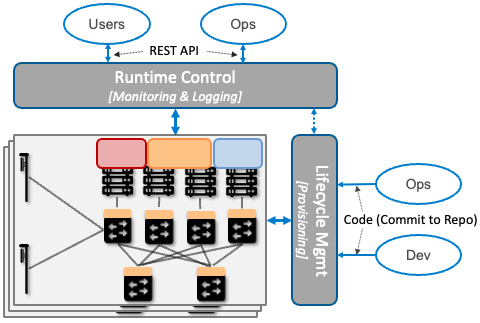
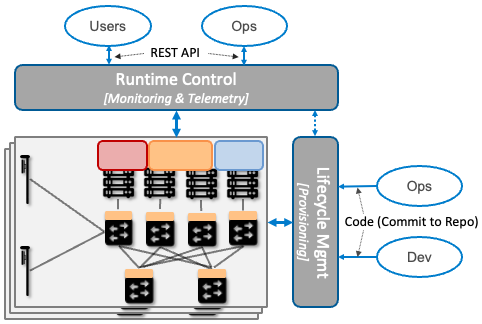
reconciled earlier chapters

diff --git a/monitor.rst b/monitor.rst
@@ -5,10 +5,9 @@ Collecting telemetry data for a running system, so that operators can
 monitor its behavior, evaluate performance, make informed provisioning
 decisions, respond to failures, identify attacks, and diagnose
 problems is an essential function of any management platform. Broadly
-speaking, there are three types of telemetry data to
-collect—*metrics*, *logs*, and *traces*\—with multiple open source
-software stacks available to help collect, monitor, and act upon each
-of them.
+speaking, there are three types of telemetry data—*metrics*, *logs*,
+and *traces*\—with multiple open source software stacks available to
+help collect, store, and act upon each of them.
 
 Metrics are quantitative data about a system. These include common
 performance metrics like link bandwidth, CPU utilization, and memory
@@ -43,8 +42,33 @@ inherently distributed across a graph of network-connected
 microservices. This makes the problem challenging, but also critically
 important because it is often the case that the only way to understand
 a time-dependent phenomena—such as why a particular resource is over
-loaded—is understand why multiple independent workflows are impacting
-each other.
+loaded—is understand how multiple independent workflows impact each
+other.
+
+.. sidebar:: Observability
+
+    *Observability is a new term being used in the context monitoring,
+    and while it is easily dismissed as the latest buzzword (which it
+    is), it can also be interpretted as another of the set of "-ities"
+    (qualities) that all good systems aspire to: scalability,
+    reliability, availability, security, usability, and so on.
+    Observability is the quality of system designed to reveal the
+    facts (telemetry data) about its internal operation required to
+    make informed management and control decisions. Instrumentation is
+    the key implementation choice systems (and system components) make
+    to improve their observability.*
+
+    *Observability is not just a software quality. For example, a
+    recent development is Inband Network Telemetry (INT), which takes
+    advantage of programmable switching hardware to enable new
+    questions about how network packets are being processed, rather
+    than having to depend the fixed set of counters hardwired into
+    network devices.  Because Aether uses programmable switches as the
+    foundation for its SDN-based switching fabric, it has a fourth set
+    of telemetry data availble to help debug problems, optimize
+    performance, and detect malicious attacks. We do not discuss INT
+    in this chapter, but refer the reader to our companion SDN book
+    for more information.*
 
 In addition to collecting various telemetry data, there is also an
 analysis step required to take advantage of it. This is an open ended
@@ -61,12 +85,11 @@ dropping a monitoring value is not especially harmful.
 
 Finally, because the metrics, logs, and traces collected by the
 various subsystems are timestamped, it is also possible to build
-linkages between the various types of telemetry data, which is
-especially helpful when debugging a problem or deciding whether an
-alert is warranted. We give examples of how this and other useful
-functions might be implemented in the concluding section, where we
-also discuss ongoing efforts to unify monitoring across all types of
-data.
+linkages between them, which is especially helpful when debugging a
+problem or deciding whether an alert is warranted. We give examples of
+how this and other useful functions might be implemented in the
+concluding section, where we also discuss ongoing efforts to unify
+monitoring across all types of telemetry data.
 
 6.1 Metrics and Alerts
 -------------------------------
@@ -345,8 +368,8 @@ following set of best practices.
 The third tool in the monitoring toolkit is support for tracing, which
 is challenging in a cloud setting because it involves following the
 flow of control for each transaction across multiple microservices.
-This makes it a distributed problem, rather than the simpler (and
-familiar) task of inspecting an in-memory stack trace.
+This makes it a distributed problem, rather than the simpler task of
+inspecting an in-memory stack trace.
 
 The general pattern is similar what we've already seen with metrics
 and logs: the code is instrumented to produce data that is then
@@ -372,20 +395,22 @@ timestamped and annotated with relevant facts (key/value tags) about
 the application. Importantly, each span includes timestamped log
 messages generated while the span was executing (simplifying the
 process of relating log messages with traces), and each span context
-records the endpoint and parameters for the remote service innovation.
+records the state (e.g., call parameters) that crosses microservice
+boundaries.
 
 Again, as with metrics and log messages, the details are important and
-those details are specified by an agreed-upon schema. The
-OpenTelemetry project is now defining one such spec, building on the
-earlier OpenTracing project. Notably, however, the problem space is
-complex and the subject of ongoing research. These definitions can be
-expected to evolve and mature in the foreseeable future.
+those details are specified by an agreed-upon data model. The
+OpenTelemetry project is now defining one such model, building on the
+earlier OpenTracing project. Notably, however, the problem is complex,
+especially with respect to (1) reducing the overhead of tracing so as
+to not negatively impact performance, and (2) extracting meaningful
+high-level information from a collection of per-transaction traces. As
+a consequence, distributed tracing is the subject of significant
+ongoing research, and we can expect these definitions to evolve and
+mature in the foreseeable future.
 
 .. _reading_tracing:
 .. admonition:: Further Reading
-
-   `OpenTracing 
-   <https://opentracing.io/>`__.
 
    `OpenTelemetry 
    <https://opentelemetry.io/>`__.
@@ -396,10 +421,11 @@ expected to evolve and mature in the foreseeable future.
 With respect to mechanisms, Jaeger is a widely used open source
 tracing tool originally developed by Uber. (Jaeger is not currently
 included in Aether, but was utilized in a predecessor ONF edge cloud.)
-Jaeger includes client libraries that can be used to instrument source
-code, a collector, storage, a language that can be used to query
-stored traces, and a user dashboard designed to help diagnose
-performance problems and do root cause analysis.
+Jaeger includes instrumentation of the runtime system for the
+language(s) used to implement an application, a collector, storage, a
+query language that can be used to analyze stored traces, and a user
+dashboard designed to help diagnose performance problems and do root
+cause analysis.
 
 6.4 Integrated Dashboards
 -------------------------
@@ -415,22 +441,23 @@ the subsystems of the management platform is also a requirement.
 
 Unifying all this data is the ultimate objective of on-going efforts
 like the OpenTelemetry project mentioned in the previous section, but
-there are also opportunities to do so today with legacy subsystems,
-using the tools described in this chapter. This section highlights two
+there are also opportunities to use the tools described in this
+chapter to better integrate data. This section highlights two
 examples.
 
 First, while Kibana provides a dashboard view of the logs being
 collected, in practice, it is most useful to have a convenient way to
 see the log messages associated with a particular component (at a
-particular time and log level) in the context of monitoring data. This
-is easy to accomplish because Grafana can be configured to display
-data from Elastic Search just as easily as from Prometheus. Both are
-data sources that can be queried. This makes it to possible to create
-a Grafana dashboard that includes a selected set of log messages,
-similar to the one from Aether shown in :numref:`Figure %s
-<fig-es_dash>`.  In this example, we see INFO-level messages
-associated with the UPF sub-component of SD-Core, which augments the
-UPF performance data shown in :numref:`Figure %s <fig-upf_dash>`.
+particular time and log level) in the context of metrics that have
+been collected. This is easy to accomplish because Grafana can be
+configured to display data from Elastic Search just as easily as from
+Prometheus. Both are data sources that can be queried. This makes it
+to possible to create a Grafana dashboard that includes a selected set
+of log messages, similar to the one from Aether shown in
+:numref:`Figure %s <fig-es_dash>`.  In this example, we see INFO-level
+messages associated with the UPF sub-component of SD-Core, which
+augments the UPF performance data shown in :numref:`Figure %s
+<fig-upf_dash>`.
 
 .. _fig-es_dash:
 .. figure:: figures/es_dash.png
@@ -440,15 +467,16 @@ UPF performance data shown in :numref:`Figure %s <fig-upf_dash>`.
    Log messages associated with the UPF element of SD-Core, displayed
    in a Grafana dashboard.
 
-Second, the runtime control interface provides a means to change
-various parameters of a running system, but having access to the data
-needed to know what changes (if any) need to be made is a prerequisite
-for making informed decisions. To this end, it is ideal to have access
-to both the "knobs" and the "dials" on an integrated dashboard.  This
-can be accomplished by incorporating Grafana frames in the Runtime
-Control GUI, which in its simplest form, displays a set of web forms
-corresponding to the fields in the underlying data models. (More
-sophisticated control panels are certainly possible.)
+Second, the runtime control interface described in Chapter 5 provides
+a means to change various parameters of a running system, but having
+access to the data needed to know what changes (if any) need to be
+made is a prerequisite for making informed decisions. To this end, it
+is ideal to have access to both the "knobs" and the "dials" on an
+integrated dashboard.  This can be accomplished by incorporating
+Grafana frames in the Runtime Control GUI, which in its simplest form,
+displays a set of web forms corresponding to the fields in the
+underlying data models. (More sophisticated control panels are
+certainly possible.)
 
 .. _fig-dev_group:
 .. figure:: figures/gui1.png

diff --git a/arch.rst b/arch.rst
@@ -330,7 +330,7 @@ division between those that *use* cloud services and those that
    :align: center
 
    The four subsystems that comprise AMP: Resource Provisioning,
-   Lifecycle Management, Runtime Control, and Monitoring & Logging.
+   Lifecycle Management, Runtime Control, and Monitoring & Telemetry.
 
 We do not focus on these portals, which provide a graphical interface
 to a subset of AMP functionality, but we instead describe the
@@ -347,8 +347,8 @@ four subsystems:
 * Runtime Control: Responsible for the ongoing configuration and
   control of the services (e.g., connectivity) provided by Aether.
 
-* Monitoring & Logging: Responsible for collecting, archiving,
-  evaluating, and analyzing operational data generated by Aether
+* Monitoring & Telemetry: Responsible for collecting, archiving,
+  evaluating, and analyzing telemetry data generated by Aether
   components.
 
 Internally, each of these subsystems is implemented as a highly
@@ -490,8 +490,8 @@ users try to invoke on each service. These details are spelled out in
 Chapter 5.
 
 
-2.4.4 Monitoring and Logging
-~~~~~~~~~~~~~~~~~~~~~~~~~~~~
+2.4.4 Monitoring and Telemetry
+~~~~~~~~~~~~~~~~~~~~~~~~~~~~~~
 
 In addition to controlling service functionality, a running system has
 to be continuously monitored so that operators can diagnose and
@@ -512,12 +512,14 @@ consumable dashboards (similar to the example shown in :numref:`Figure
    subsystems (SD-Core).
 
 In broad terms, it is common to think of this aspect of cloud
-management as having two parts: a monitoring component that collects
+management as having three parts: a monitoring component that collects
 quantitative metrics (e.g., load averages, transmission rates,
-ops-per-second) and a logging component that collects diagnostic
-messages (i.e., text strings explaining various event). Both include a
-timestamp, so it is possible to link quantitative analysis with
-qualitative explanations in support of diagnostics and analytics.
+ops-per-second), a logging component that collects diagnostic
+messages (i.e., text strings explaining various event), and a tracing
+component that can reconstruct workflows through a set of
+microservices. All include a timestamp, so it is possible to link
+quantitative analysis with qualitative explanations in support of
+diagnostics and analytics.
 
 2.4.5 Summary
 ~~~~~~~~~~~~~
@@ -548,14 +550,14 @@ These two "simplifications" allow us to reduce the architectural
 overview of the management platform to the two-dimensional
 representation shown in :numref:`Figure %s <fig-2D>`. In one
 dimension, layered on top of the hybrid cloud being managed, is the
-Runtime Control system (including Monitoring and Logging to close the
-control loop). Users and Operators read and write parameters of the
-running system via a well-defined REST API. In the other dimension,
-running beside the hybrid cloud, is the Lifecycle Management system
-(including Resource Provisioning as Step 0).  Operators and Developers
-specify changes to the system by checking code (including
-configuration specs) into a repo, and then periodically triggering an
-upgrade of the running system.
+Runtime Control system (including Monitoring and Telemetry to close
+the control loop). Users and Operators read and write parameters of
+the running system via a well-defined REST API. In the other
+dimension, running beside the hybrid cloud, is the Lifecycle
+Management system (including Resource Provisioning as Step 0).
+Operators and Developers specify changes to the system by checking
+code (including configuration specs) into a repo, and then
+periodically triggering an upgrade of the running system.
 
 .. _fig-2D:
 .. figure:: figures/Slide25.png
@@ -624,8 +626,8 @@ team is also responsible for:
    Lifecycle Management.
 
 2. Instrumenting their code so it reports into the Monitoring and
-   Logging framework, giving them the dashboards and alarms they need
-   to troubleshoot any problems that arise.
+   Telemetry framework, giving them the dashboards and alarms they
+   need to troubleshoot any problems that arise.
 
 3. Augmenting the data model of Runtime Control, so their component’s
    internal interfaces are plumbed through to the cloud’s externally
@@ -670,17 +672,17 @@ calls in the middle of the night.
 
 Second, all of the activity outlined in the previous paragraph is
 possible only because of the rich set of capabilities built into the
-Control and Management Platform that is the subject of this
-book.\ [#]_ Someone had to build that platform, which includes a
-testing framework that individual tests can be plugged into; an
-automated deployment framework that is able to roll upgrades out to a
-scalable number of servers and sites without manual intervention; a
-monitoring and logging framework that components can report into; a
-runtime control environment that can translate high-level directives
-into low-level operations on backend components; and so on. While each
-of these frameworks were once created by a team tasked with keeping
-some other service running smoothly, they have taken on a life of
-their own. The Control and Management Platform now has its own DevOps
+Control and Management Platform that is the subject of this book.\
+[#]_ Someone had to build that platform, which includes a testing
+framework that individual tests can be plugged into; an automated
+deployment framework that is able to roll upgrades out to a scalable
+number of servers and sites without manual intervention; a monitoring
+and telemetry framework that components can report into; a runtime
+control environment that can translate high-level directives into
+low-level operations on backend components; and so on. While each of
+these frameworks were once created by a team tasked with keeping some
+other service running smoothly, they have taken on a life of their
+own. The Control and Management Platform now has its own DevOps
 team(s), who in addition to continually improving the platform, also
 field operational events, and when necessary, interact with other
 teams (e.g., the SD-RAN team in Aether) to resolve issues that come

diff --git a/intro.rst b/intro.rst
@@ -212,10 +212,10 @@ terminology.
     requirement on individual components (as opposed to the underlying
     platform used to manage a set of components).
 
-* **Monitoring & Logging:** Collecting data from system components to aid
-  in management decisions. This includes diagnosing faults, tuning
-  performance, doing root cause analysis, performing security audits,
-  and provisioning additional capacity.
+* **Monitoring & Telemetry:** Collecting data from system components
+  to aid in management decisions. This includes diagnosing faults,
+  tuning performance, doing root cause analysis, performing security
+  audits, and provisioning additional capacity.
 
   * **Analytics:** A program (often using statistical models) that
     produces additional insights (value) from raw data. It can be used
@@ -330,9 +330,9 @@ and Kubernetes as the first-level *container orchestrator*. (We say
 foundation, in turn, makes many of the other challenges more
 manageable:
 
-* Monitoring and Logging mechanisms are themselves realized as a set
-  of container-based microservices, deployed within the cloud they
-  observe.
+* Monitoring and other telemetry-related mechanisms are themselves
+  realized as a set of container-based microservices, deployed within
+  the cloud they observe.
 
 * ISSU becomes more tractable because the microservice architecture
   encourages stateless components, with persistent state isolated in a

diff --git a/lifecycle.rst b/lifecycle.rst
@@ -149,11 +149,11 @@ into the Code Repo requires first passing this preliminary round of
 tests. Once merged, the pipeline runs a build across all the
 components, and a second round of testing happens on a *Quality
 Assurance (QA)* cluster. Passing these tests gate deployment, but note
-that testing also happens in the Staging clusters, as part of the CD end
-of the pipeline. One might naturally ask what about the Production
-clusters; how do we continue to test the software after it is running in
-production?  That happens, of course, but we tend to call it
-Monitoring & Logging (and subsequent diagnostics) rather than
+that testing also happens in the Staging clusters, as part of the CD
+end of the pipeline. One might naturally ask what about the Production
+clusters; how do we continue to test the software after it is running
+in production?  That happens, of course, but we tend to call it
+Monitoring & Telemetry (and subsequent diagnostics) rather than
 testing. This is the subject of Chapter 6.
 
 We explore each of the stages in :numref:`Figure %s <fig-pipeline>` in

diff --git a/control.rst b/control.rst
@@ -244,10 +244,10 @@ K/V-store (as an optimization).
    Runtime Control also mediates access to the other Management
    Services.
 
-Another aspect of :numref:`Figure %s <fig-roc2>` worth noting is
-that, while Runtime Control mediates all control-related activity, it
-is not in the “data path” for the subsystems it controls. This means,
-for example, that monitoring data returned by the Monitoring & Logging
+Another aspect of :numref:`Figure %s <fig-roc2>` worth noting is that,
+while Runtime Control mediates all control-related activity, it is not
+in the “data path” for the subsystems it controls. This means, for
+example, that monitoring data returned by the Monitoring & Telemetry
 subsystem does not pass through Runtime Control; it is delivered
 directly to dashboards and applications running on top of the
 API. Runtime Control is only involved in authorizing access to such
